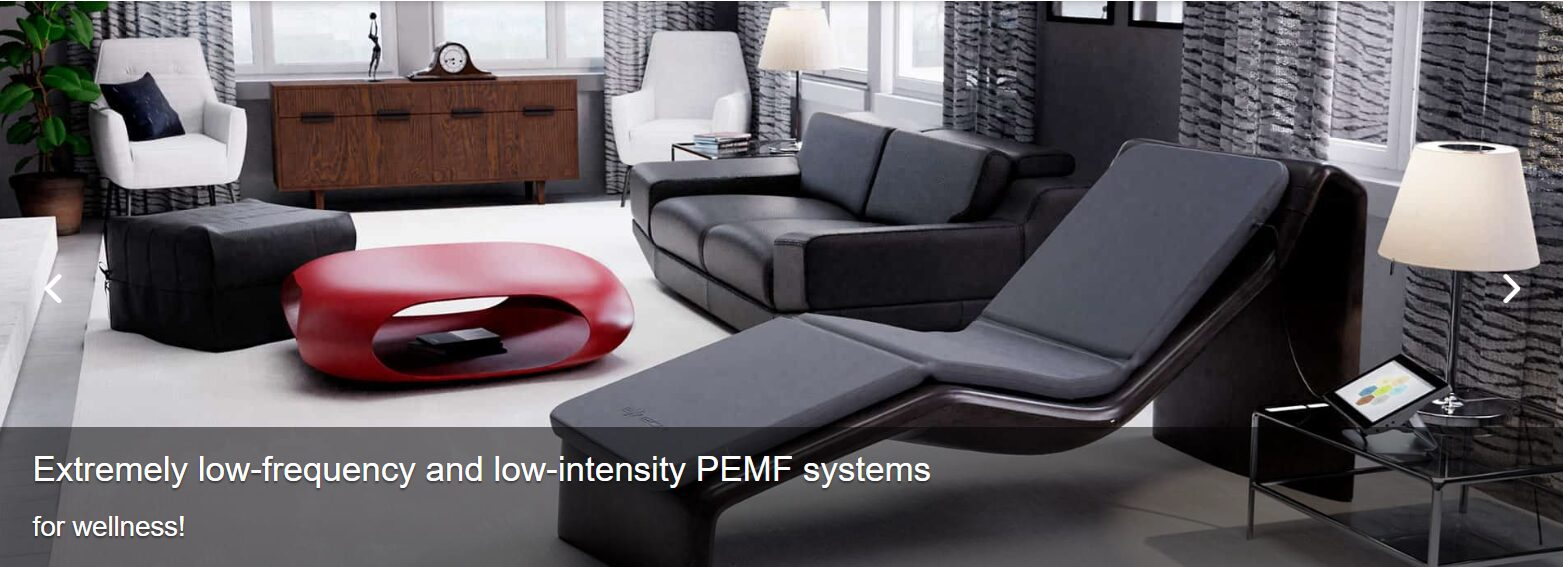
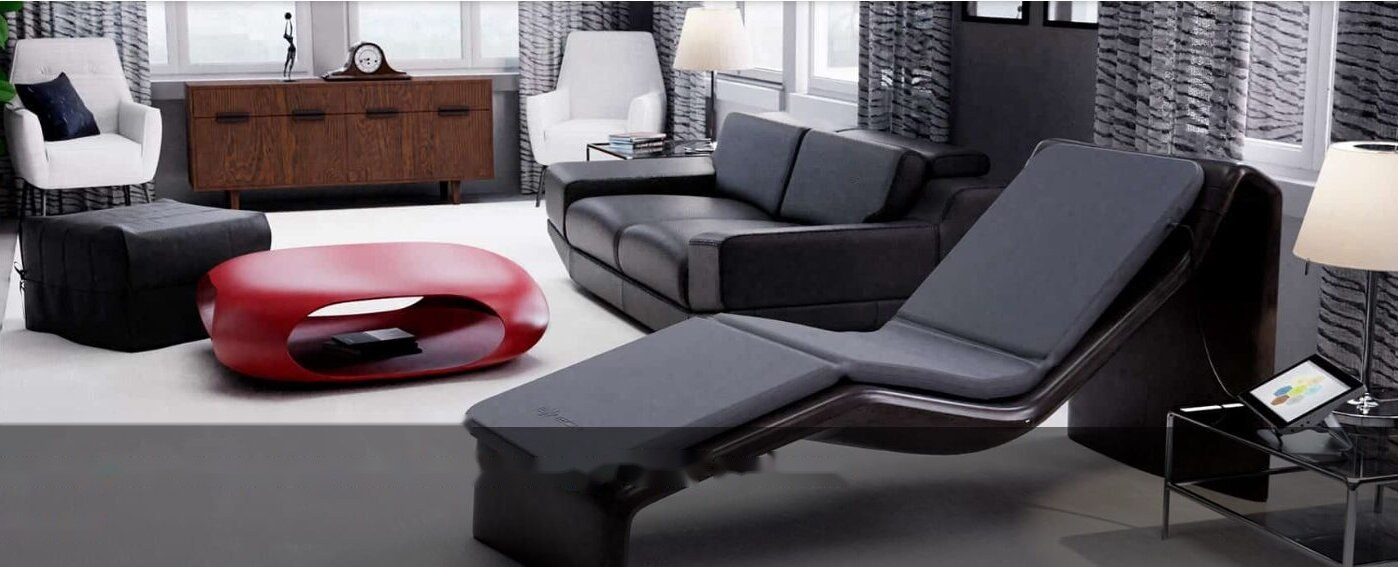
Fix iMRS Prime card image
The source image was a carousel banner with baked-in caption text that
got cut off by the card crop. Cropped out the carousel arrows, inpainted
the caption off the photo, and moved its wording into the card copy as
real text.

diff --git a/app/page.tsx b/app/page.tsx
@@ -64,7 +64,7 @@ const products = [
   {
     image: "/images/imrs-prime-set.jpg",
     name: "iMRS Prime",
-    text: "Intelligent Magnetic Resonance Stimulation, the most advanced and comprehensive PEMF technology for wellness use in the world.",
+    text: "Intelligent Magnetic Resonance Stimulation. Extremely low-frequency and low-intensity PEMF systems for wellness, the most advanced and comprehensive PEMF technology in the world.",
   },
   {
     image: "/images/omnium-on-the-go.jpg",
